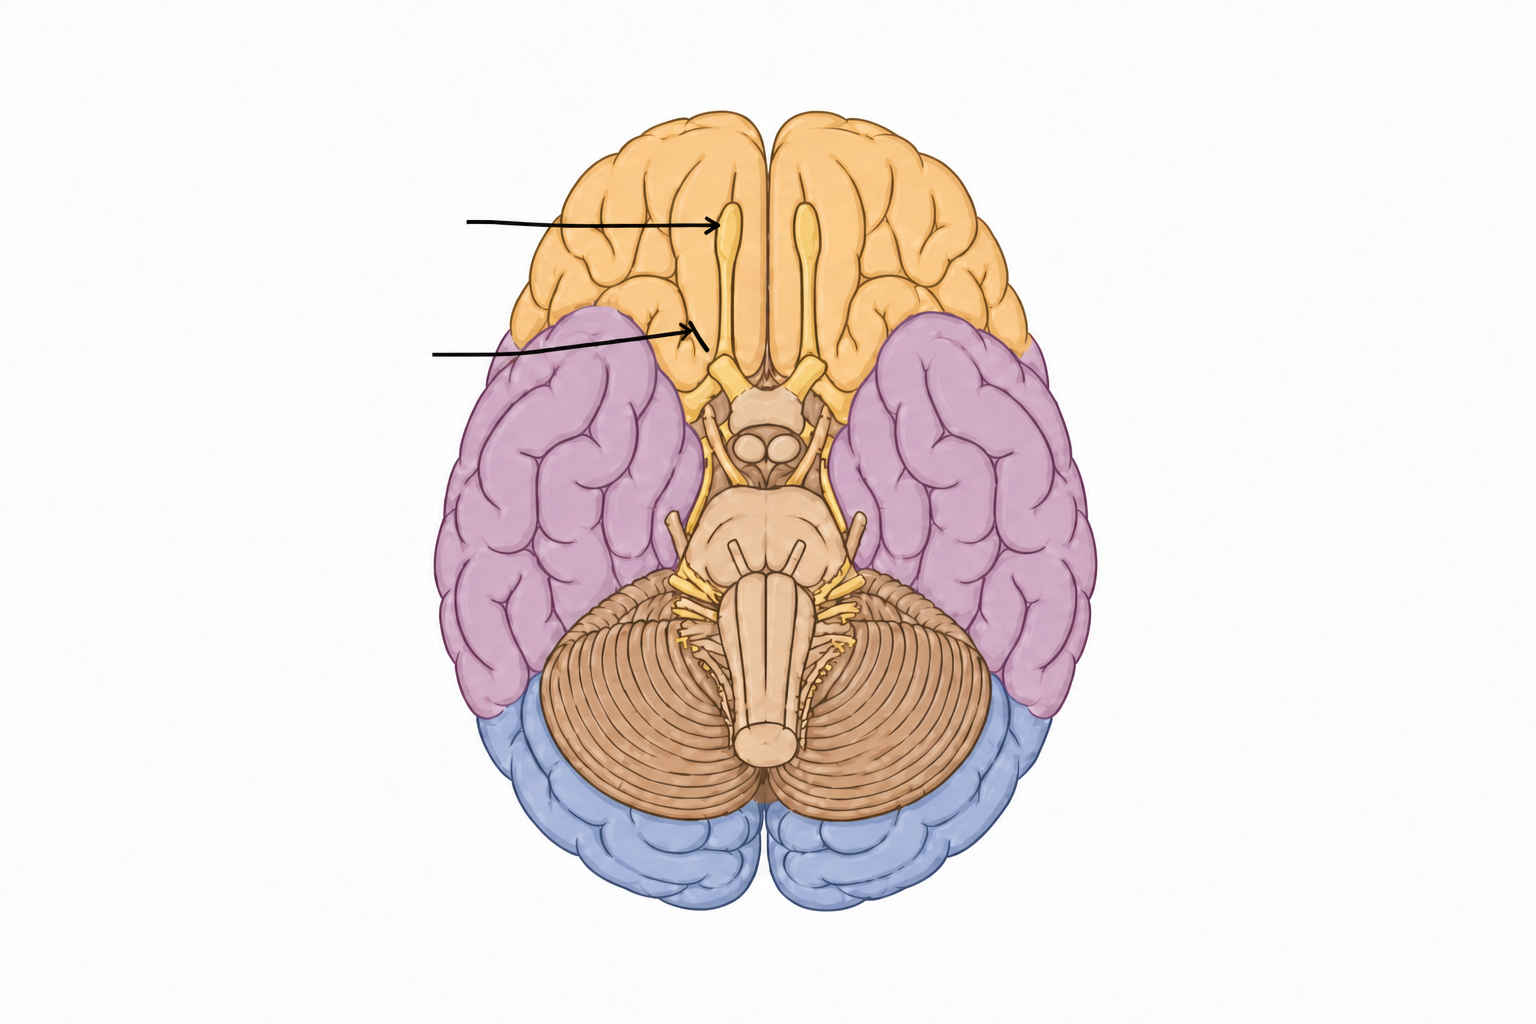
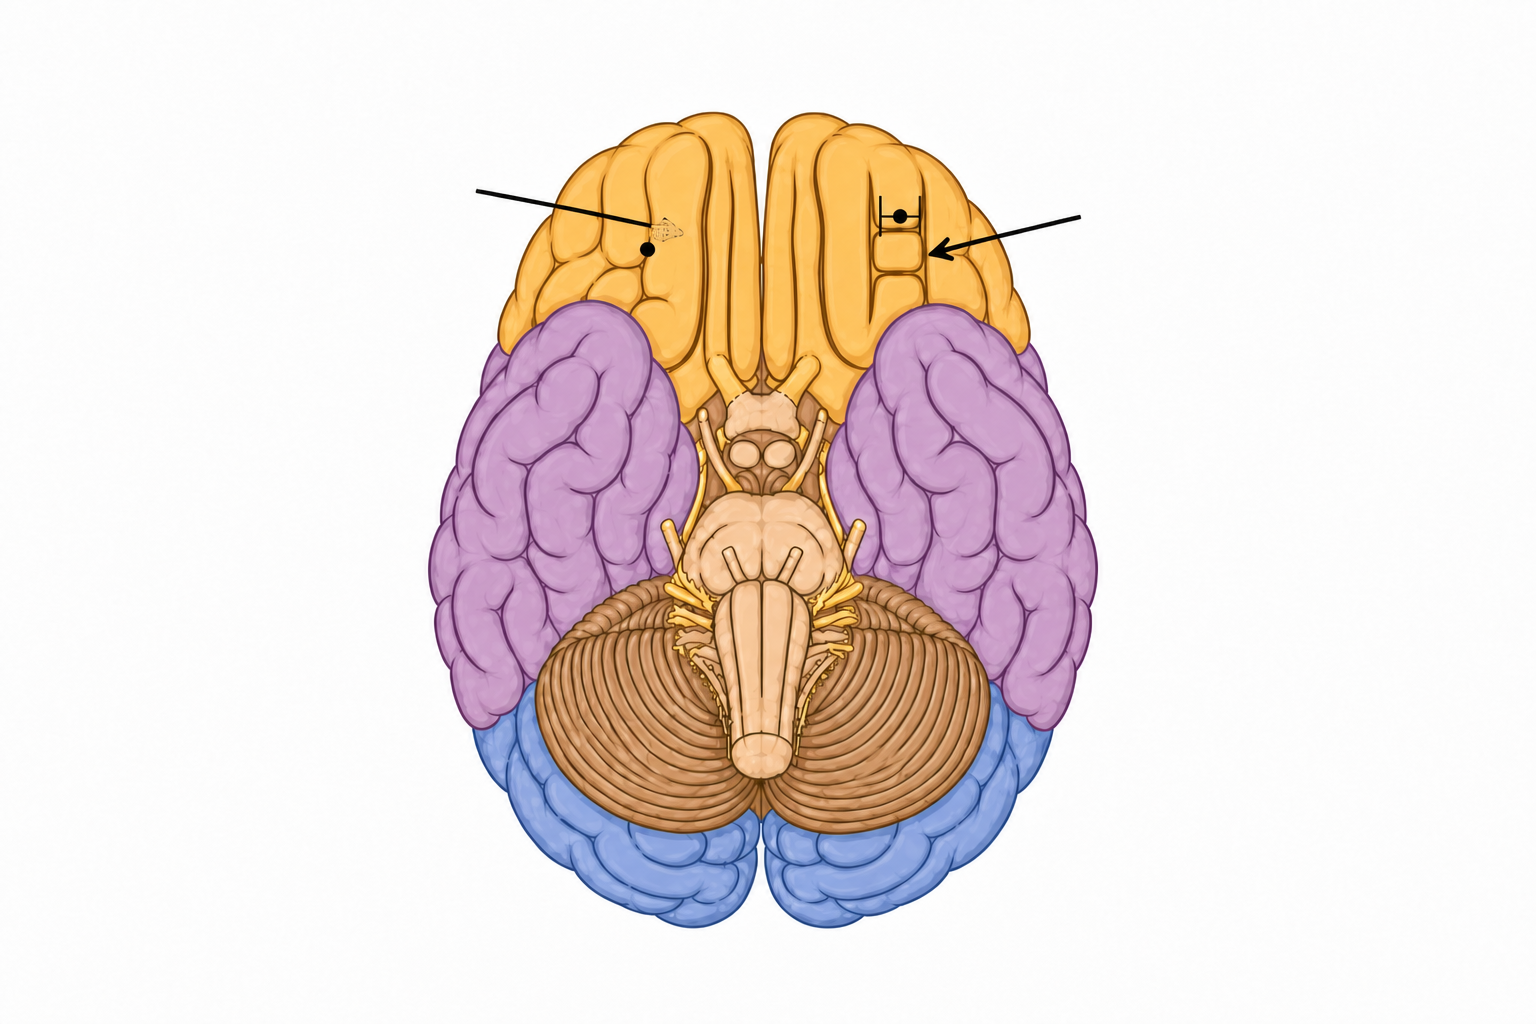
Fix inferior face: olfactory sulcus under tract, H mid-orbital.

Changed region(s): [[0.2812, 0.0938, 0.7188, 0.9062]]

diff --git a/data/flash/ch02.js b/data/flash/ch02.js
@@ -96,7 +96,7 @@
     { id: "FC-ANAT-02-S15", chapter: "02", priority: "P1", kind: "schema", front: "Schéma — Commissures", back: "Commissures", frontImg: "matiere/anatomie/img/ch02/blank/17_commissures.png", backImg: "matiere/anatomie/img/ch02/17_commissures.png" },
     { id: "FC-ANAT-02-S16", chapter: "02", priority: "P1", kind: "schema", front: "Schéma — Face latérale", back: "Face latérale", frontImg: "matiere/anatomie/img/ch02/blank/21_face_laterale.png", backImg: "matiere/anatomie/img/ch02/21_face_laterale.png" },
     { id: "FC-ANAT-02-S17", chapter: "02", priority: "P1", kind: "schema", front: "Schéma — Face médiale", back: "Face médiale", frontImg: "matiere/anatomie/img/ch02/blank/22_face_mediale.png?v=fc2f", backImg: "matiere/anatomie/img/ch02/22_face_mediale.png?v=fc2f" },
-    { id: "FC-ANAT-02-S18", chapter: "02", priority: "P1", kind: "schema", front: "Schéma — Face inférieure", back: "Face inférieure", frontImg: "matiere/anatomie/img/ch02/blank/23_face_inferieure.png?v=fc2d", backImg: "matiere/anatomie/img/ch02/23_face_inferieure.png?v=fc2d" },
+    { id: "FC-ANAT-02-S18", chapter: "02", priority: "P1", kind: "schema", front: "Schéma — Face inférieure", back: "Face inférieure", frontImg: "matiere/anatomie/img/ch02/blank/23_face_inferieure.png?v=fc2i", backImg: "matiere/anatomie/img/ch02/23_face_inferieure.png?v=fc2i" },
     { id: "FC-ANAT-02-S19", chapter: "02", priority: "P1", kind: "schema", front: "Schéma — Gyrus frontaux", back: "Gyrus frontaux", frontImg: "matiere/anatomie/img/ch02/blank/26_frontal_gyrus.png", backImg: "matiere/anatomie/img/ch02/26_frontal_gyrus.png" },
     { id: "FC-ANAT-02-S20", chapter: "02", priority: "P1", kind: "schema", front: "Schéma — Régions pariétales", back: "Régions pariétales", frontImg: "matiere/anatomie/img/ch02/blank/28_parietal_regions.png?v=fc2e", backImg: "matiere/anatomie/img/ch02/28_parietal_regions.png?v=fc2e" },
     { id: "FC-ANAT-02-S21", chapter: "02", priority: "P1", kind: "schema", front: "Schéma — Heschl et Wernicke", back: "Heschl et Wernicke", frontImg: "matiere/anatomie/img/ch02/blank/30_heschl_wernicke.png?v=fc2", backImg: "matiere/anatomie/img/ch02/30_heschl_wernicke.png?v=fc2" },

diff --git a/matiere/anatomie/ch02.html b/matiere/anatomie/ch02.html
@@ -363,7 +363,7 @@
         <img src="./img/ch02/22_face_mediale.png?v=fc2f" alt="Face médiale" />
       </figure>
       <figure class="schema">
-        <img src="./img/ch02/23_face_inferieure.png?v=fc2d" alt="Face inférieure" />
+        <img src="./img/ch02/23_face_inferieure.png?v=fc2i" alt="Face inférieure" />
       </figure>
       <div class="label-quiz" data-labels='[["sillon central"],["insula"],["sillon cingulaire"],["parieto occipital","parieto-occipital"],["sillon olfactif"],["sillon en h","en h"],["gyrus orbitaire"]]'>
         <div class="course-cloze">
